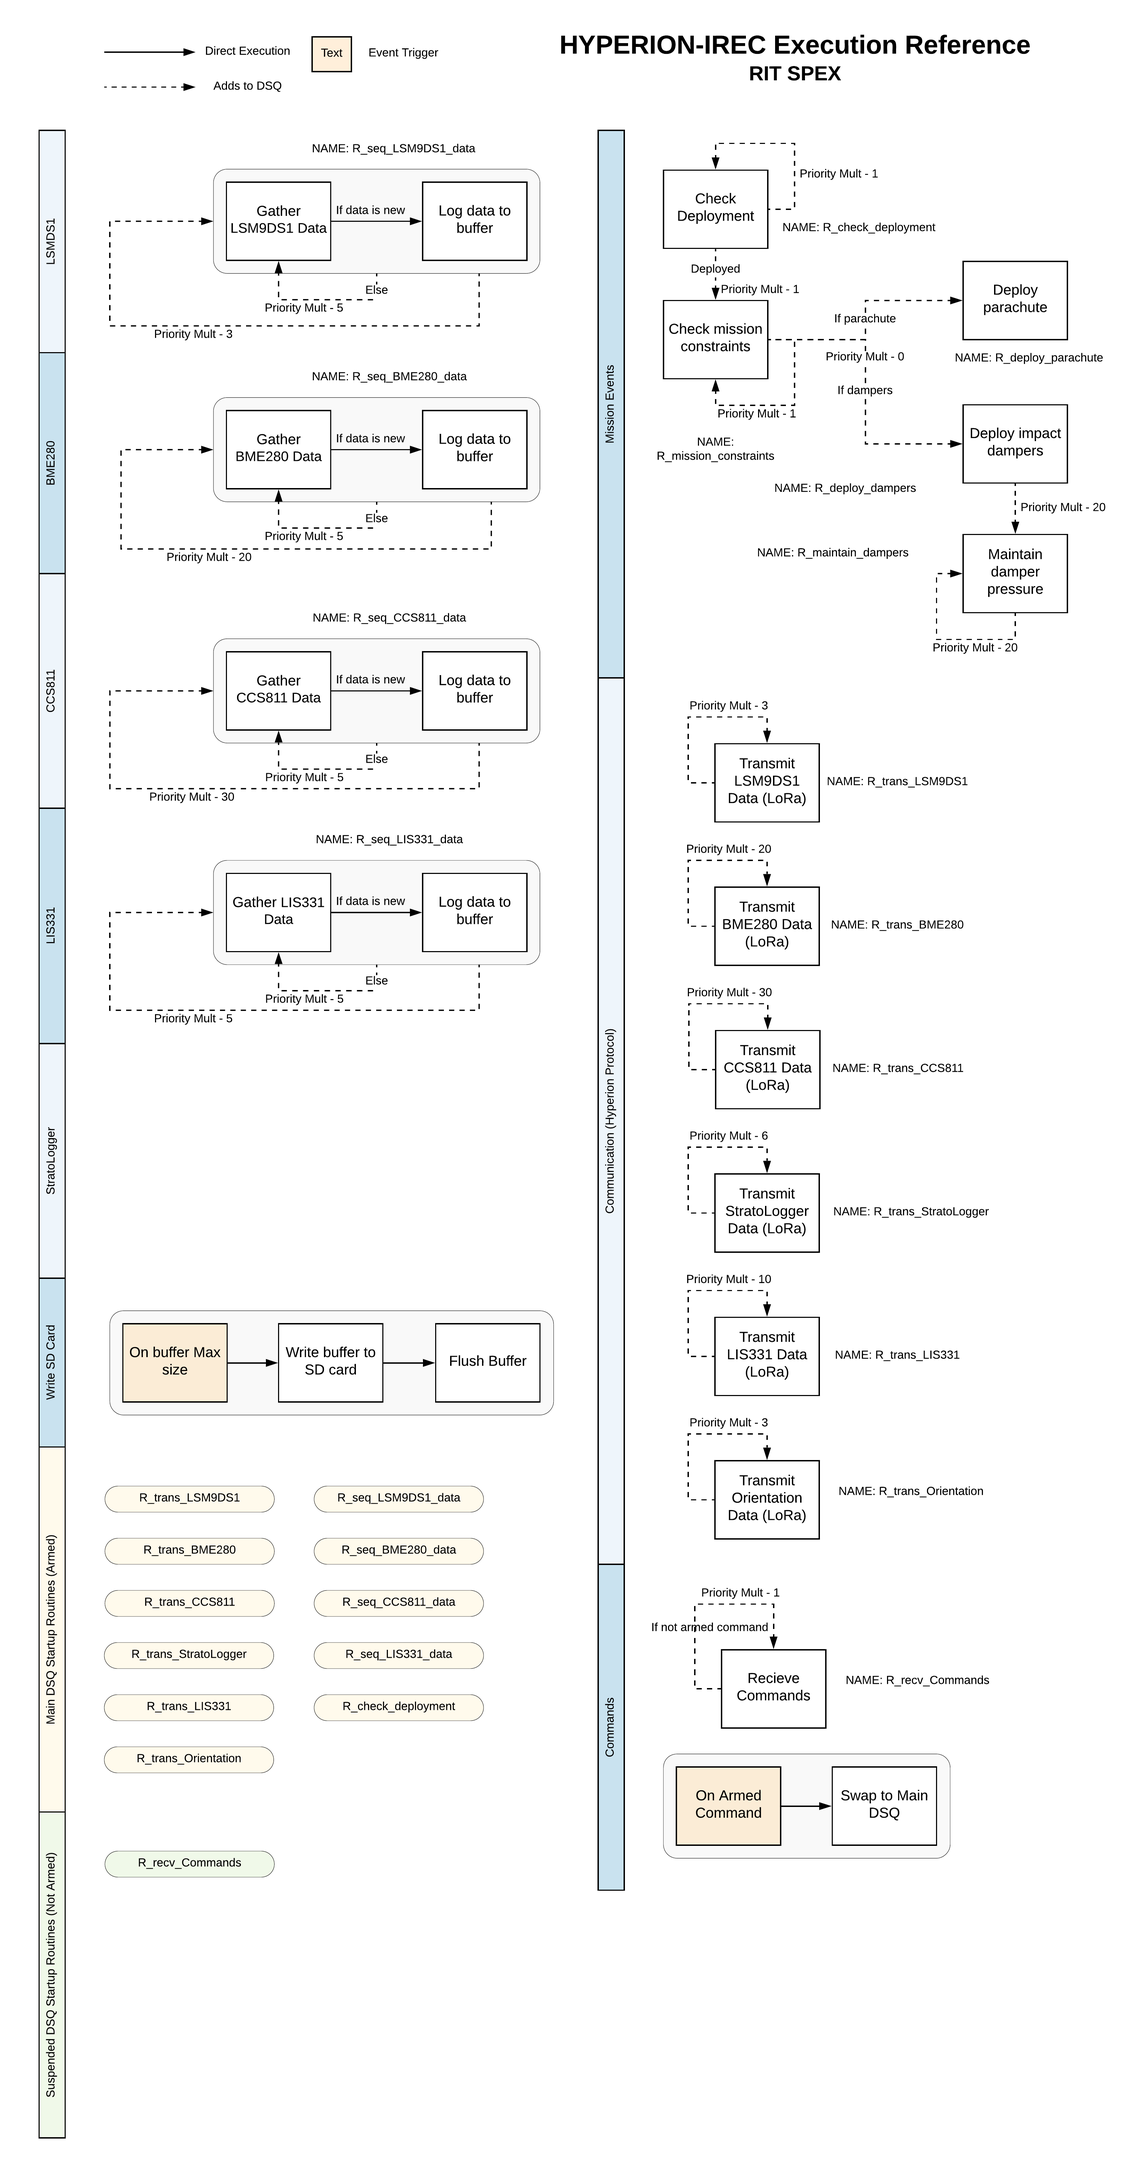
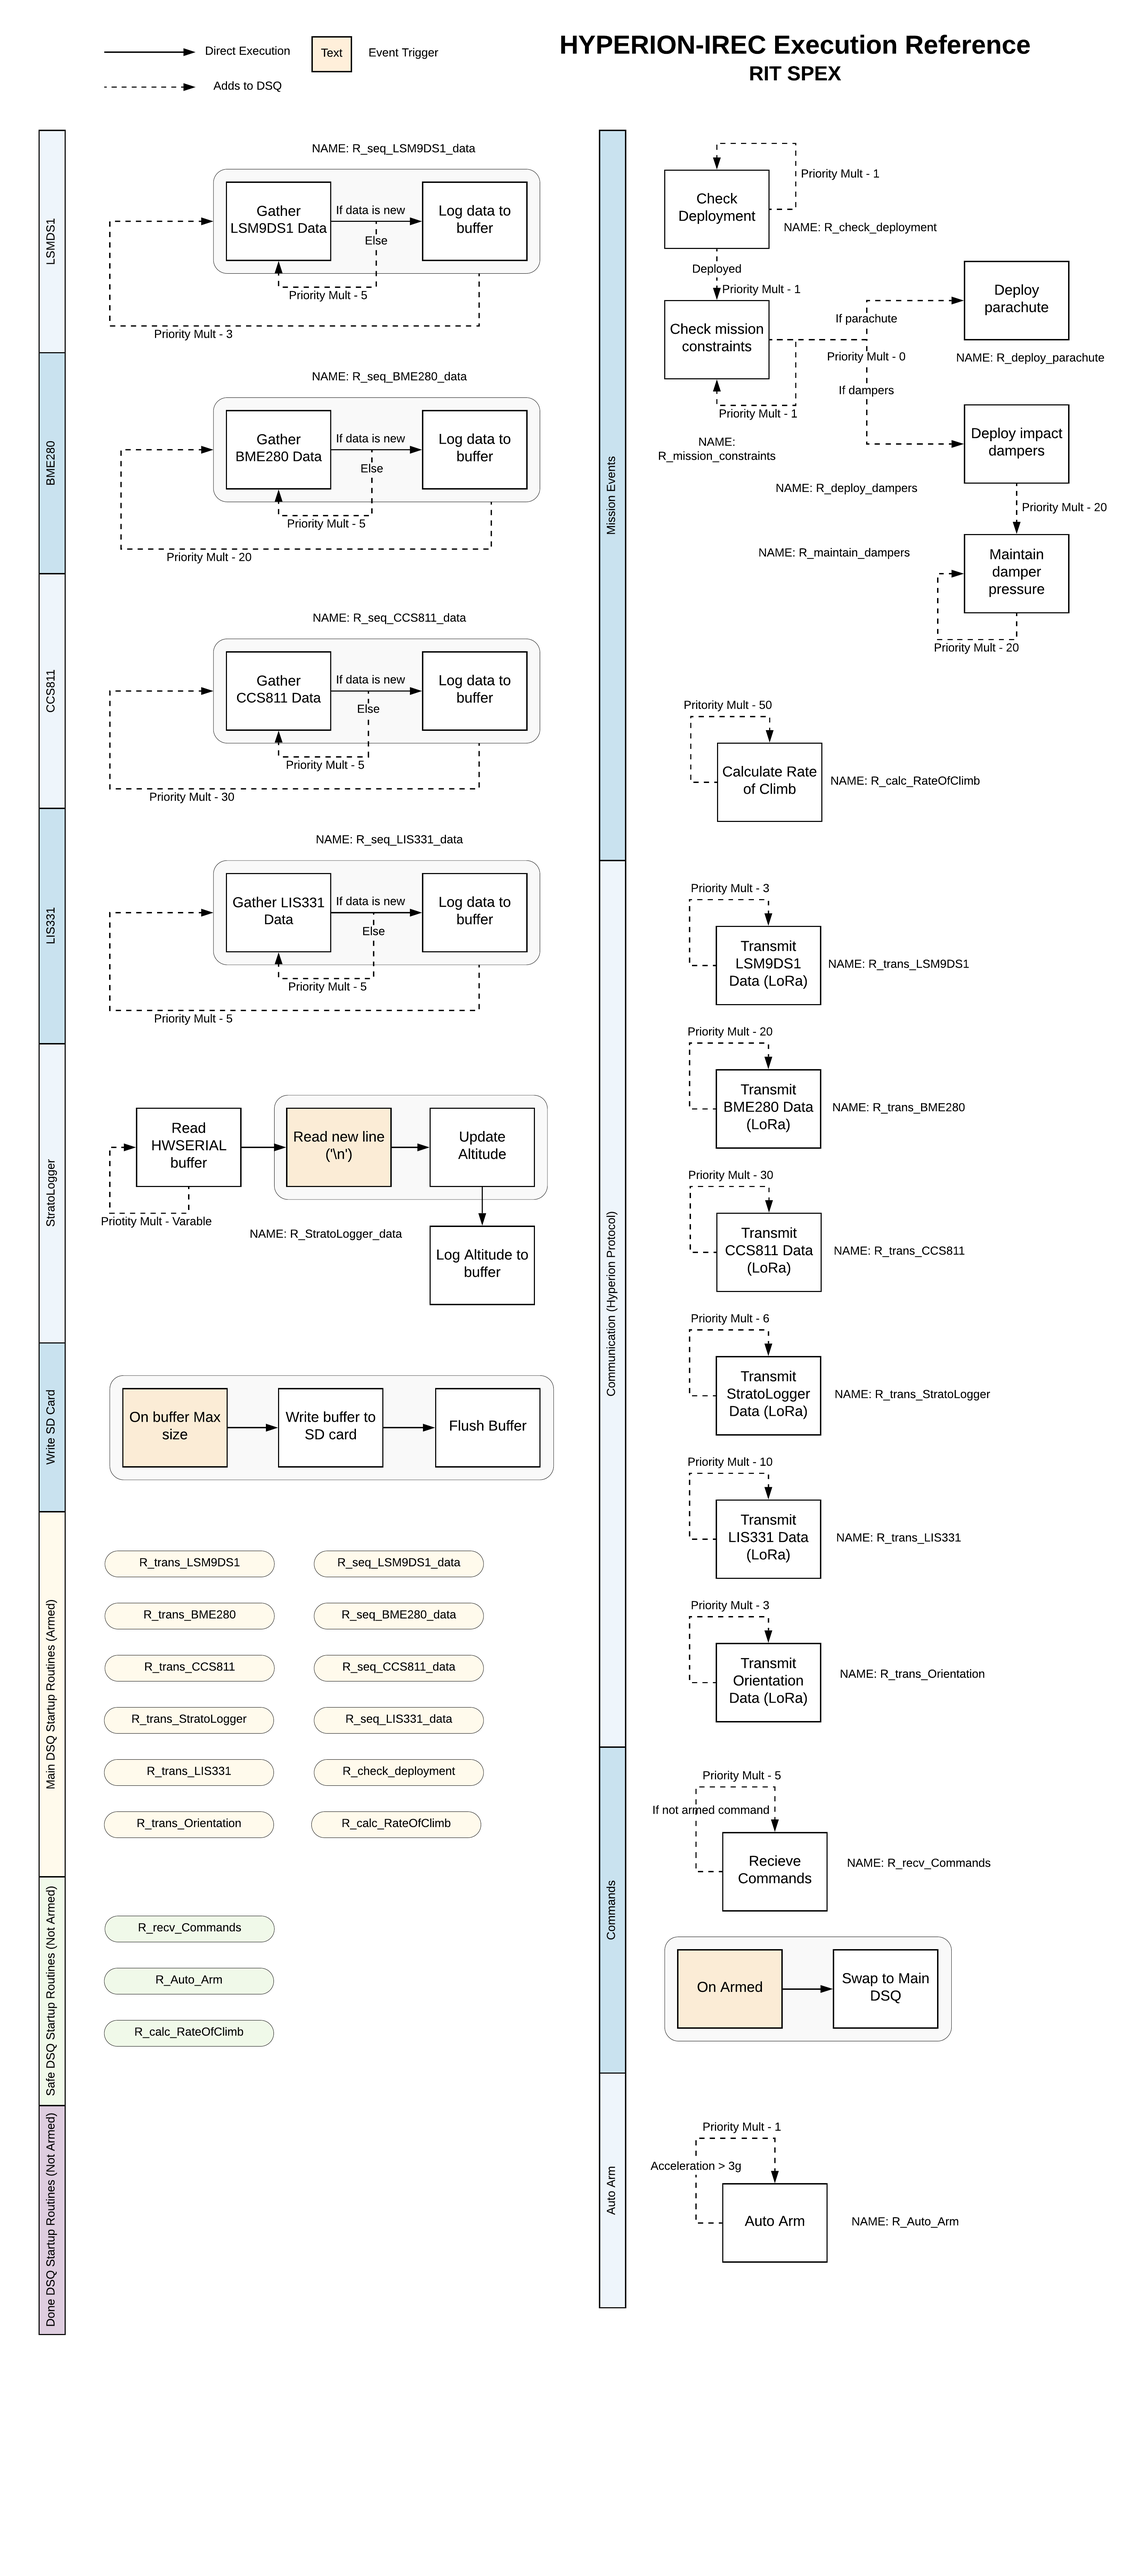
Completed Stratologger code

diff --git a/IREC-Hyperion System/src/IRECHYPERION_StratoLogger.cpp b/IREC-Hyperion System/src/IRECHYPERION_StratoLogger.cpp
@@ -9,8 +9,15 @@
 
 #define HWSERIAL Serial5
 
+// Altitude in meters
+int32_t altitude = -9999; // -9999 init value
+bool new_altitude = false; // New data flag
+
 char buff_HWSERIAL[20] = {'\0'};
 
+/**
+ * Init function for the stratologger
+ */
 int init_StratoLogger(){
   HWSERIAL.begin(9600);
 
@@ -23,15 +30,39 @@ int init_StratoLogger(){
   return 0;
 }
 
+/**
+ * Convert feet to meters
+ * Arg
+ *    alt_temp: value in feet
+ * Returns
+ *    val in meters
+ */
+int32_t convert_feet_meters(int32_t val_temp){
+  return val_temp * 0.3048;
+}
+
+/**
+ * Update altitude with the value stored in the buffer
+ */
 void alt_update(){
   // Convert buff_HWSERIAL into a singed int
   // Assign to alt varable
+  int32_t alt_temp = strtol(buff_HWSERIAL, NULL, 10); // TODO check this
+
+  altitude = convert_feet_meters(alt_temp);
+
+  new_altitude = true;
 
   Serial.println(buff_HWSERIAL); // TODO remove testing only
   buff_HWSERIAL[0] = '\0'; // Clear buffer
 }
 
-void read_HWSERIAL(){
+/**
+ * Grab chars from the UART buffer, ignoring '\r' and trigging a update on a "\n"
+ */
+int read_HWSERIAL(){
+  int cnt = 0; // Bytes read
+
   while(HWSERIAL.available()){
     char in = (char) HWSERIAL.read();
 
@@ -41,5 +72,27 @@ void read_HWSERIAL(){
       char temp[10] = {in, '\0'};
       strcat(buff_HWSERIAL, temp);
     }
+
+    cnt += 1;
   }
+
+  return cnt;
+}
+
+/**
+ * Getter function for altitude
+ */
+int32_t get_Altitude(){
+  return altitude;
+}
+
+/**
+ * Set logged data
+ */
+void set_old_altitude(){
+  new_altitude = false;
+}
+
+bool get_new_altitude(){
+  return new_altitude;
 }

diff --git a/IREC-Hyperion System/src/IRECHYPERION.h b/IREC-Hyperion System/src/IRECHYPERION.h
@@ -159,6 +159,16 @@ float     get_lis331_accel_y(); // Acceleration in the y axis Gees
 float     get_lis331_accel_z(); // Acceleration in the z axis Gees
 
 // *********************************
+// IRECHYPERION_StratoLogger
+
+int       init_StratoLogger(); // Init function for stratologger
+int32_t   convert_feet_meters(int32_t val_temp); // Convert feet to meters
+int       read_HWSERIAL(); // Reads the UART buffer
+int32_t   get_Altitude(); // Get altitude
+void      set_old_altitude();
+bool      get_new_altitude();
+
+// *********************************
 // IRECHYPERION_Routines
 // TODO
 void      R_Default(); // Default routine
